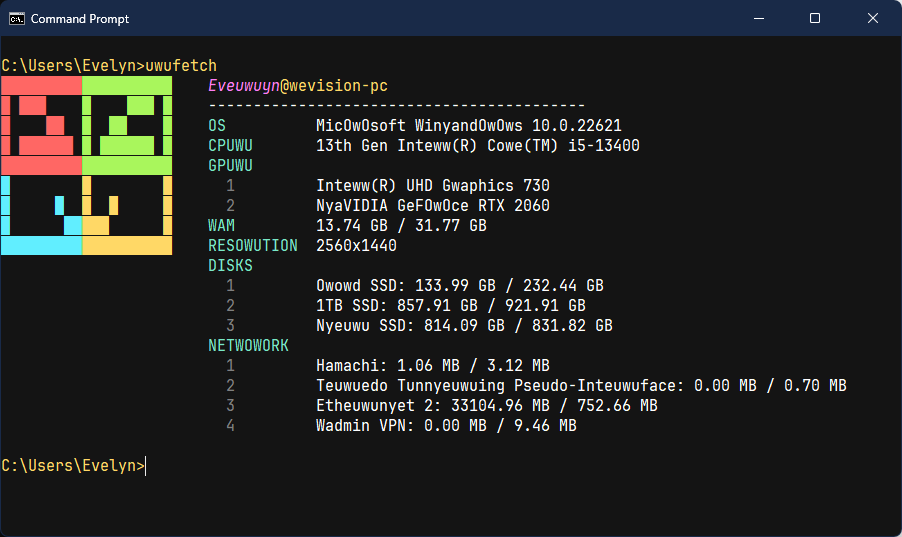
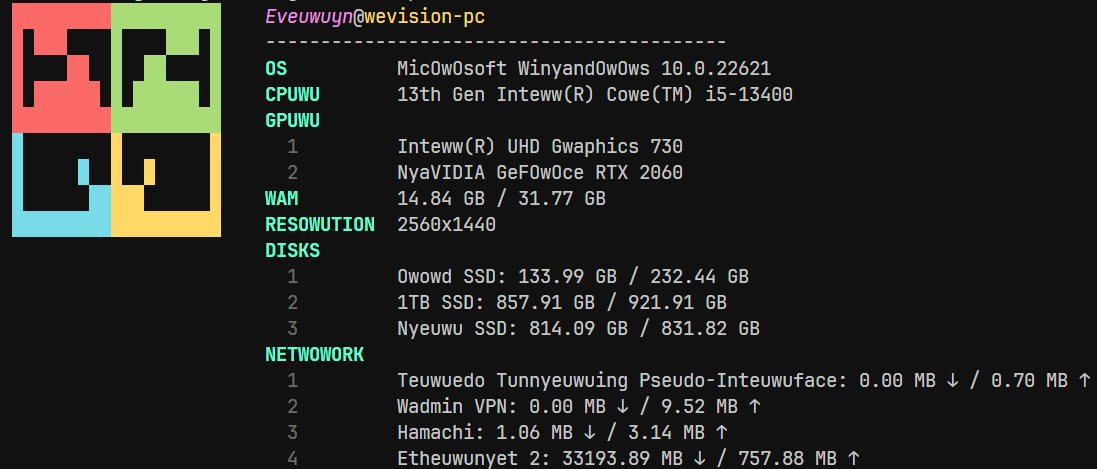
Added down/up arrows for network interfaces

Changed region(s): [[0.0, 0.0, 1.0, 1.0], [0.0, 0.8358, 0.1552, 0.8955], [0.8692, 0.6866, 0.9313, 0.7463]]

diff --git a/src/main.rs b/src/main.rs
@@ -176,8 +176,8 @@ fn setup_network_adapters() -> Vec<String> {
     let networks = Networks::new_with_refreshed_list();
     let mut network_strings = Vec::new();
     for (interface_name, data) in &networks {
-        let data_recieved_string = format!("{:.2} MB", data.total_received() as f64 / 1024.0 / 1024.0);
-        let data_transmitted_string = format!("{:.2} MB", data.total_transmitted() as f64 / 1024.0 / 1024.0);
+        let data_recieved_string = format!("{:.2} MB ↓", data.total_received() as f64 / 1024.0 / 1024.0);
+        let data_transmitted_string = format!("{:.2} MB ↑", data.total_transmitted() as f64 / 1024.0 / 1024.0);
         let data = format!("{} / {}", data_recieved_string, data_transmitted_string);
         network_strings.push(format!("{}: {}", uwu_letter_replace(interface_name.as_str()), data));
     }
